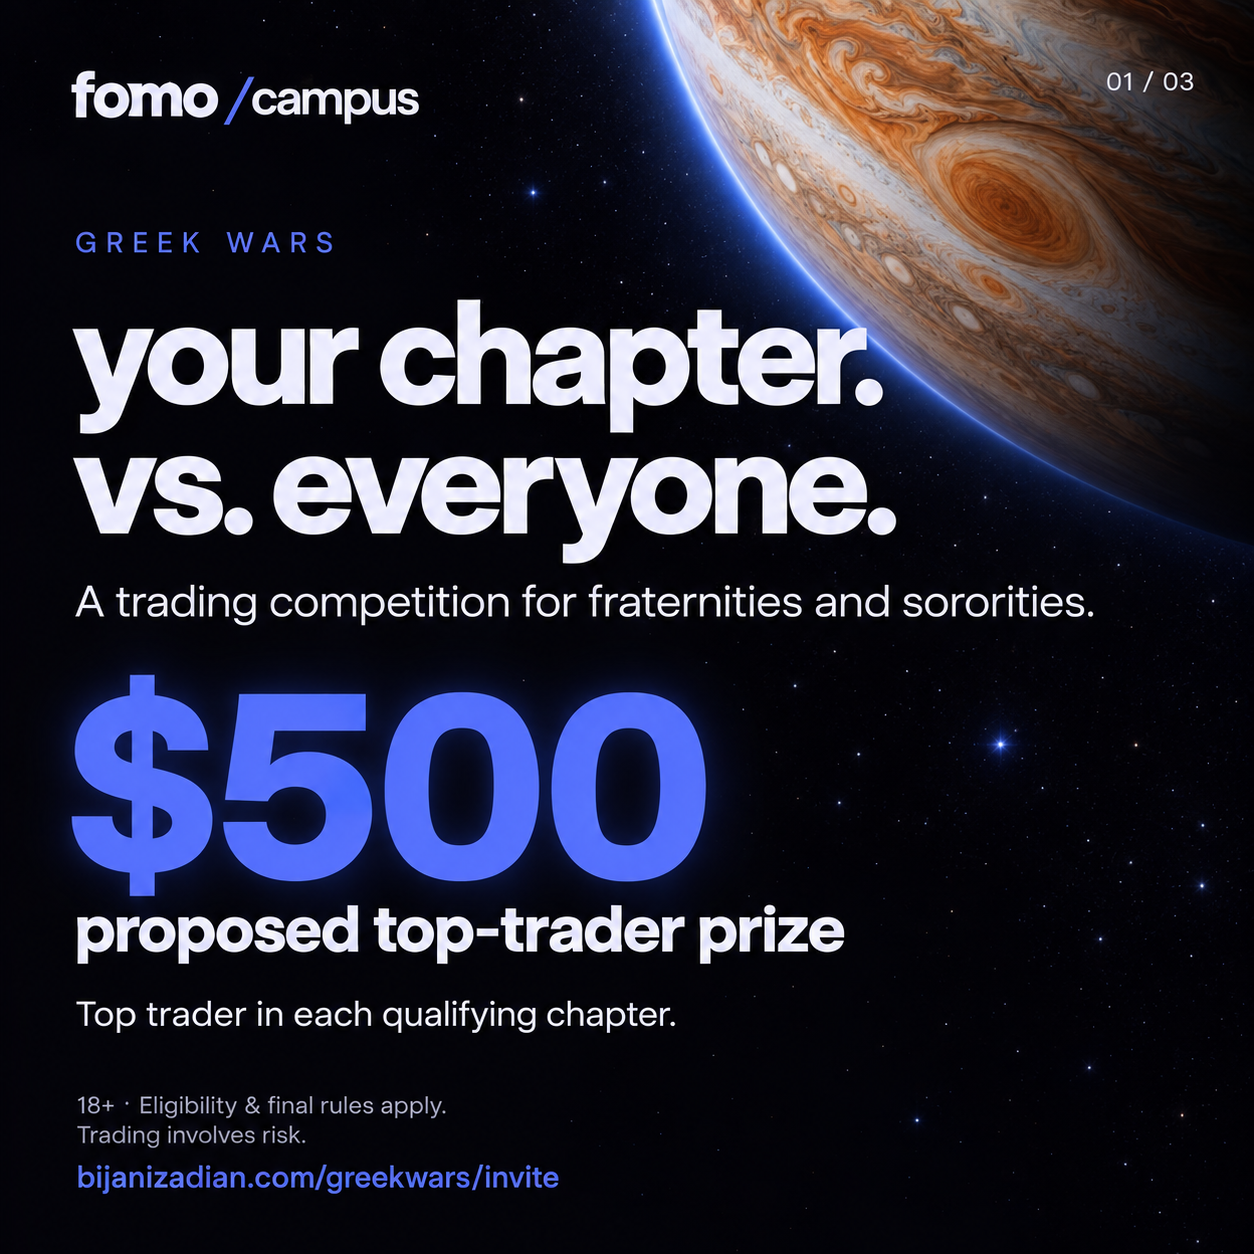
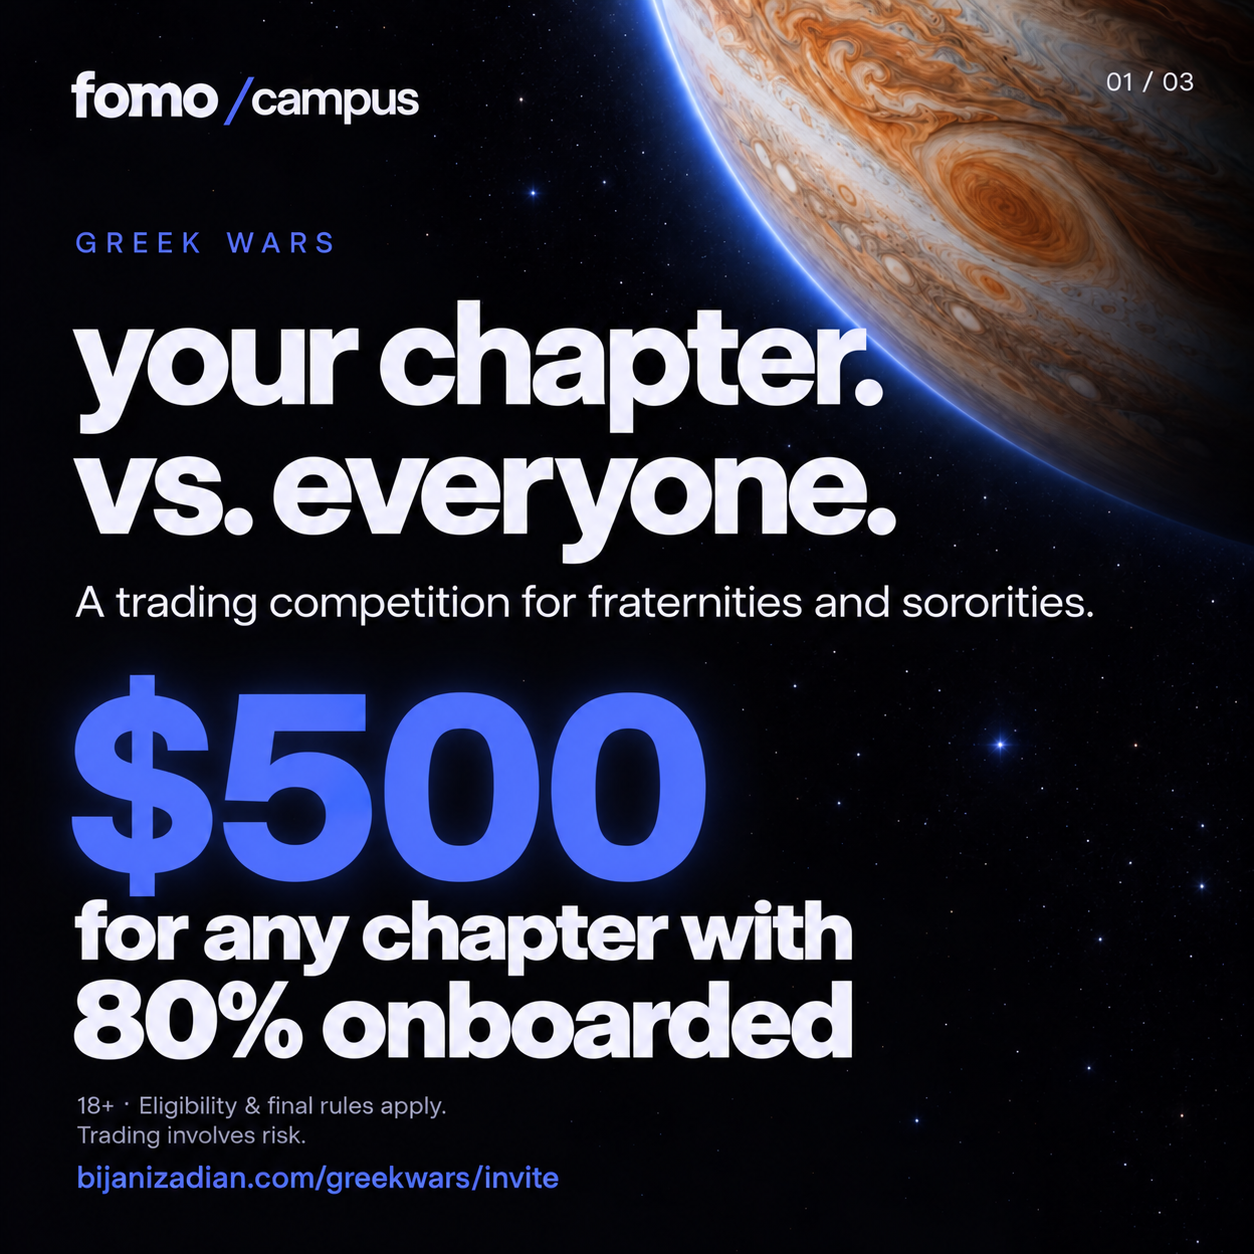
Correct Greek Wars graphic to chapter onboarding reward

diff --git a/scripts/campus-social-prompts.md b/scripts/campus-social-prompts.md
@@ -2,7 +2,7 @@
 
 Generated with the built-in imagegen tool. Final PNGs are in `assets/campus-social/`.
 
-The Greek Wars graphic marks the $500 prize as proposed because official rules are pending in the existing project copy. Campus team amounts are task payments; dinner coverage is paid directly to the restaurant.
+The Greek Wars graphic uses the user-confirmed $500 chapter onboarding reward for any chapter with 80% onboarded. Campus team amounts are task payments; dinner coverage is paid directly to the restaurant.
 
 ## 01-greek-wars
 
@@ -15,12 +15,14 @@ Exact text:
 "vs. everyone."
 "A trading competition for fraternities and sororities."
 "$500"
-"proposed top-trader prize"
-"Top trader in each qualifying chapter."
+"for any chapter with"
+"80% onboarded"
 "18+ · Eligibility & final rules apply."
 "Trading involves risk."
 "bijanizadian.com/greekwars/invite"
-Composition: headline across upper middle, $500 large and blue-lavender across lower middle with proposed top-trader prize directly attached, and the other lines clearly arranged underneath. Jupiter illuminates the upper-right background. Keep proposed status visible; do not write guaranteed or imply investment returns. Poster is an invitation concept using the current campus manual's proposed prize, with final rules pending.
+Composition: headline across upper middle, $500 large and blue-lavender across lower middle with "for any chapter with" and "80% onboarded" directly attached on two lines, and the other lines clearly arranged underneath. Jupiter illuminates the upper-right background. The amount is the user-confirmed chapter onboarding reward, not a trading return.
+
+Correction edit prompt: In the existing Greek Wars graphic, replace only the two lines immediately below "$500" with "for any chapter with" and "80% onboarded". Preserve all other text, artwork, typography, colors and layout.
 
 ## 02-campus-team
 
